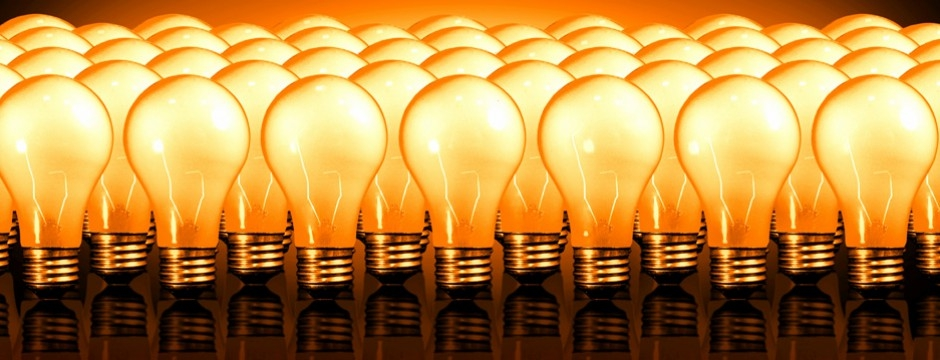
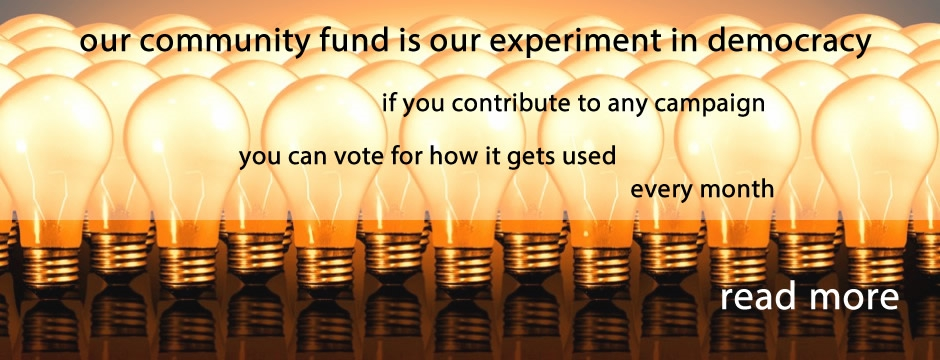
replace slider images, gradually adding more real images that link to actual campaigns

diff --git a/slider/index.html b/slider/index.html
@@ -19,14 +19,16 @@
 <li><img src="data1/images/carrieatmixandmingle940x360.jpg" alt="Carrie-at-Mix-and-Mingle-940x360" title="Carrie-at-Mix-and-Mingle-940x360" id="wows1_1"/></li>
 <li><img src="data1/images/lincolnelementary940x360.jpg" alt="Lincoln-Elementary-940x360" title="Lincoln-Elementary-940x360" id="wows1_2"/></li>
 <li><img src="data1/images/slideoccupy.jpg" alt="slide-occupy" title="slide-occupy" id="wows1_3"/></li>
-<li><a href="/nycahamericorps"><img src="data1/images/firealarm940x360.jpg" alt="firealarm-940x360" title="firealarm-940x360" id="wows1_4"/></a>Help us fight against hunger in New York City</li>
+<li><a href="/taxjusticenetwork"><img src="data1/images/maldiveshome940x360.jpg" alt="Tax Justice Network" title="Tax Justice Network" id="wows1_4"/></a>Tax Justice Network</li>
+<li><a href="/bringitlocal"><img src="data1/images/firealarm940x360.jpg" alt="Community Fund - contribute and vote" title="Community Fund - contribute and vote" id="wows1_5"/></a>Community Fund - contribute and vote</li>
 </ul></div>
 <div class="ws_bullets"><div>
 <a href="#" title="support NYCCAH "><img src="data1/tooltips/hungerfactssliderwithcaption.fw.jpg" alt="support NYCCAH "/>1</a>
 <a href="#" title="Carrie-at-Mix-and-Mingle-940x360"><img src="data1/tooltips/carrieatmixandmingle940x360.jpg" alt="Carrie-at-Mix-and-Mingle-940x360"/>2</a>
 <a href="#" title="Lincoln-Elementary-940x360"><img src="data1/tooltips/lincolnelementary940x360.jpg" alt="Lincoln-Elementary-940x360"/>3</a>
 <a href="#" title="slide-occupy"><img src="data1/tooltips/slideoccupy.jpg" alt="slide-occupy"/>4</a>
-<a href="#" title="firealarm-940x360"><img src="data1/tooltips/firealarm940x360.jpg" alt="firealarm-940x360"/>5</a>
+<a href="#" title="Tax Justice Network"><img src="data1/tooltips/maldiveshome940x360.jpg" alt="Tax Justice Network"/>5</a>
+<a href="#" title="Community Fund - contribute and vote"><img src="data1/tooltips/firealarm940x360.jpg" alt="Community Fund - contribute and vote"/>6</a>
 </div></div>
 <!-- Generated by WOWSlider.com v3.7 -->
 	<div class="ws_shadow"></div>

diff --git a/slider/engine1/style.css b/slider/engine1/style.css
@@ -150,13 +150,13 @@
 	font-size: 25px;
 	text-shadow: 1px 1px 1px #000000;
 }#wowslider-container1 .ws_images ul{
-	animation: wsBasic 27.5s infinite;
-	-moz-animation: wsBasic 27.5s infinite;
-	-webkit-animation: wsBasic 27.5s infinite;
+	animation: wsBasic 33s infinite;
+	-moz-animation: wsBasic 33s infinite;
+	-webkit-animation: wsBasic 33s infinite;
 }
-@keyframes wsBasic{0%{left:-0%} 15.64%{left:-0%} 20%{left:-100%} 35.64%{left:-100%} 40%{left:-200%} 55.64%{left:-200%} 60%{left:-300%} 75.64%{left:-300%} 80%{left:-400%} 95.64%{left:-400%} }
-@-moz-keyframes wsBasic{0%{left:-0%} 15.64%{left:-0%} 20%{left:-100%} 35.64%{left:-100%} 40%{left:-200%} 55.64%{left:-200%} 60%{left:-300%} 75.64%{left:-300%} 80%{left:-400%} 95.64%{left:-400%} }
-@-webkit-keyframes wsBasic{0%{left:-0%} 15.64%{left:-0%} 20%{left:-100%} 35.64%{left:-100%} 40%{left:-200%} 55.64%{left:-200%} 60%{left:-300%} 75.64%{left:-300%} 80%{left:-400%} 95.64%{left:-400%} }
+@keyframes wsBasic{0%{left:-0%} 13.03%{left:-0%} 16.67%{left:-100%} 29.7%{left:-100%} 33.33%{left:-200%} 46.36%{left:-200%} 50%{left:-300%} 63.03%{left:-300%} 66.67%{left:-400%} 79.7%{left:-400%} 83.33%{left:-500%} 96.36%{left:-500%} }
+@-moz-keyframes wsBasic{0%{left:-0%} 13.03%{left:-0%} 16.67%{left:-100%} 29.7%{left:-100%} 33.33%{left:-200%} 46.36%{left:-200%} 50%{left:-300%} 63.03%{left:-300%} 66.67%{left:-400%} 79.7%{left:-400%} 83.33%{left:-500%} 96.36%{left:-500%} }
+@-webkit-keyframes wsBasic{0%{left:-0%} 13.03%{left:-0%} 16.67%{left:-100%} 29.7%{left:-100%} 33.33%{left:-200%} 46.36%{left:-200%} 50%{left:-300%} 63.03%{left:-300%} 66.67%{left:-400%} 79.7%{left:-400%} 83.33%{left:-500%} 96.36%{left:-500%} }
 
 #wowslider-container1 .ws_bullets  a img{
 	text-indent:0;
